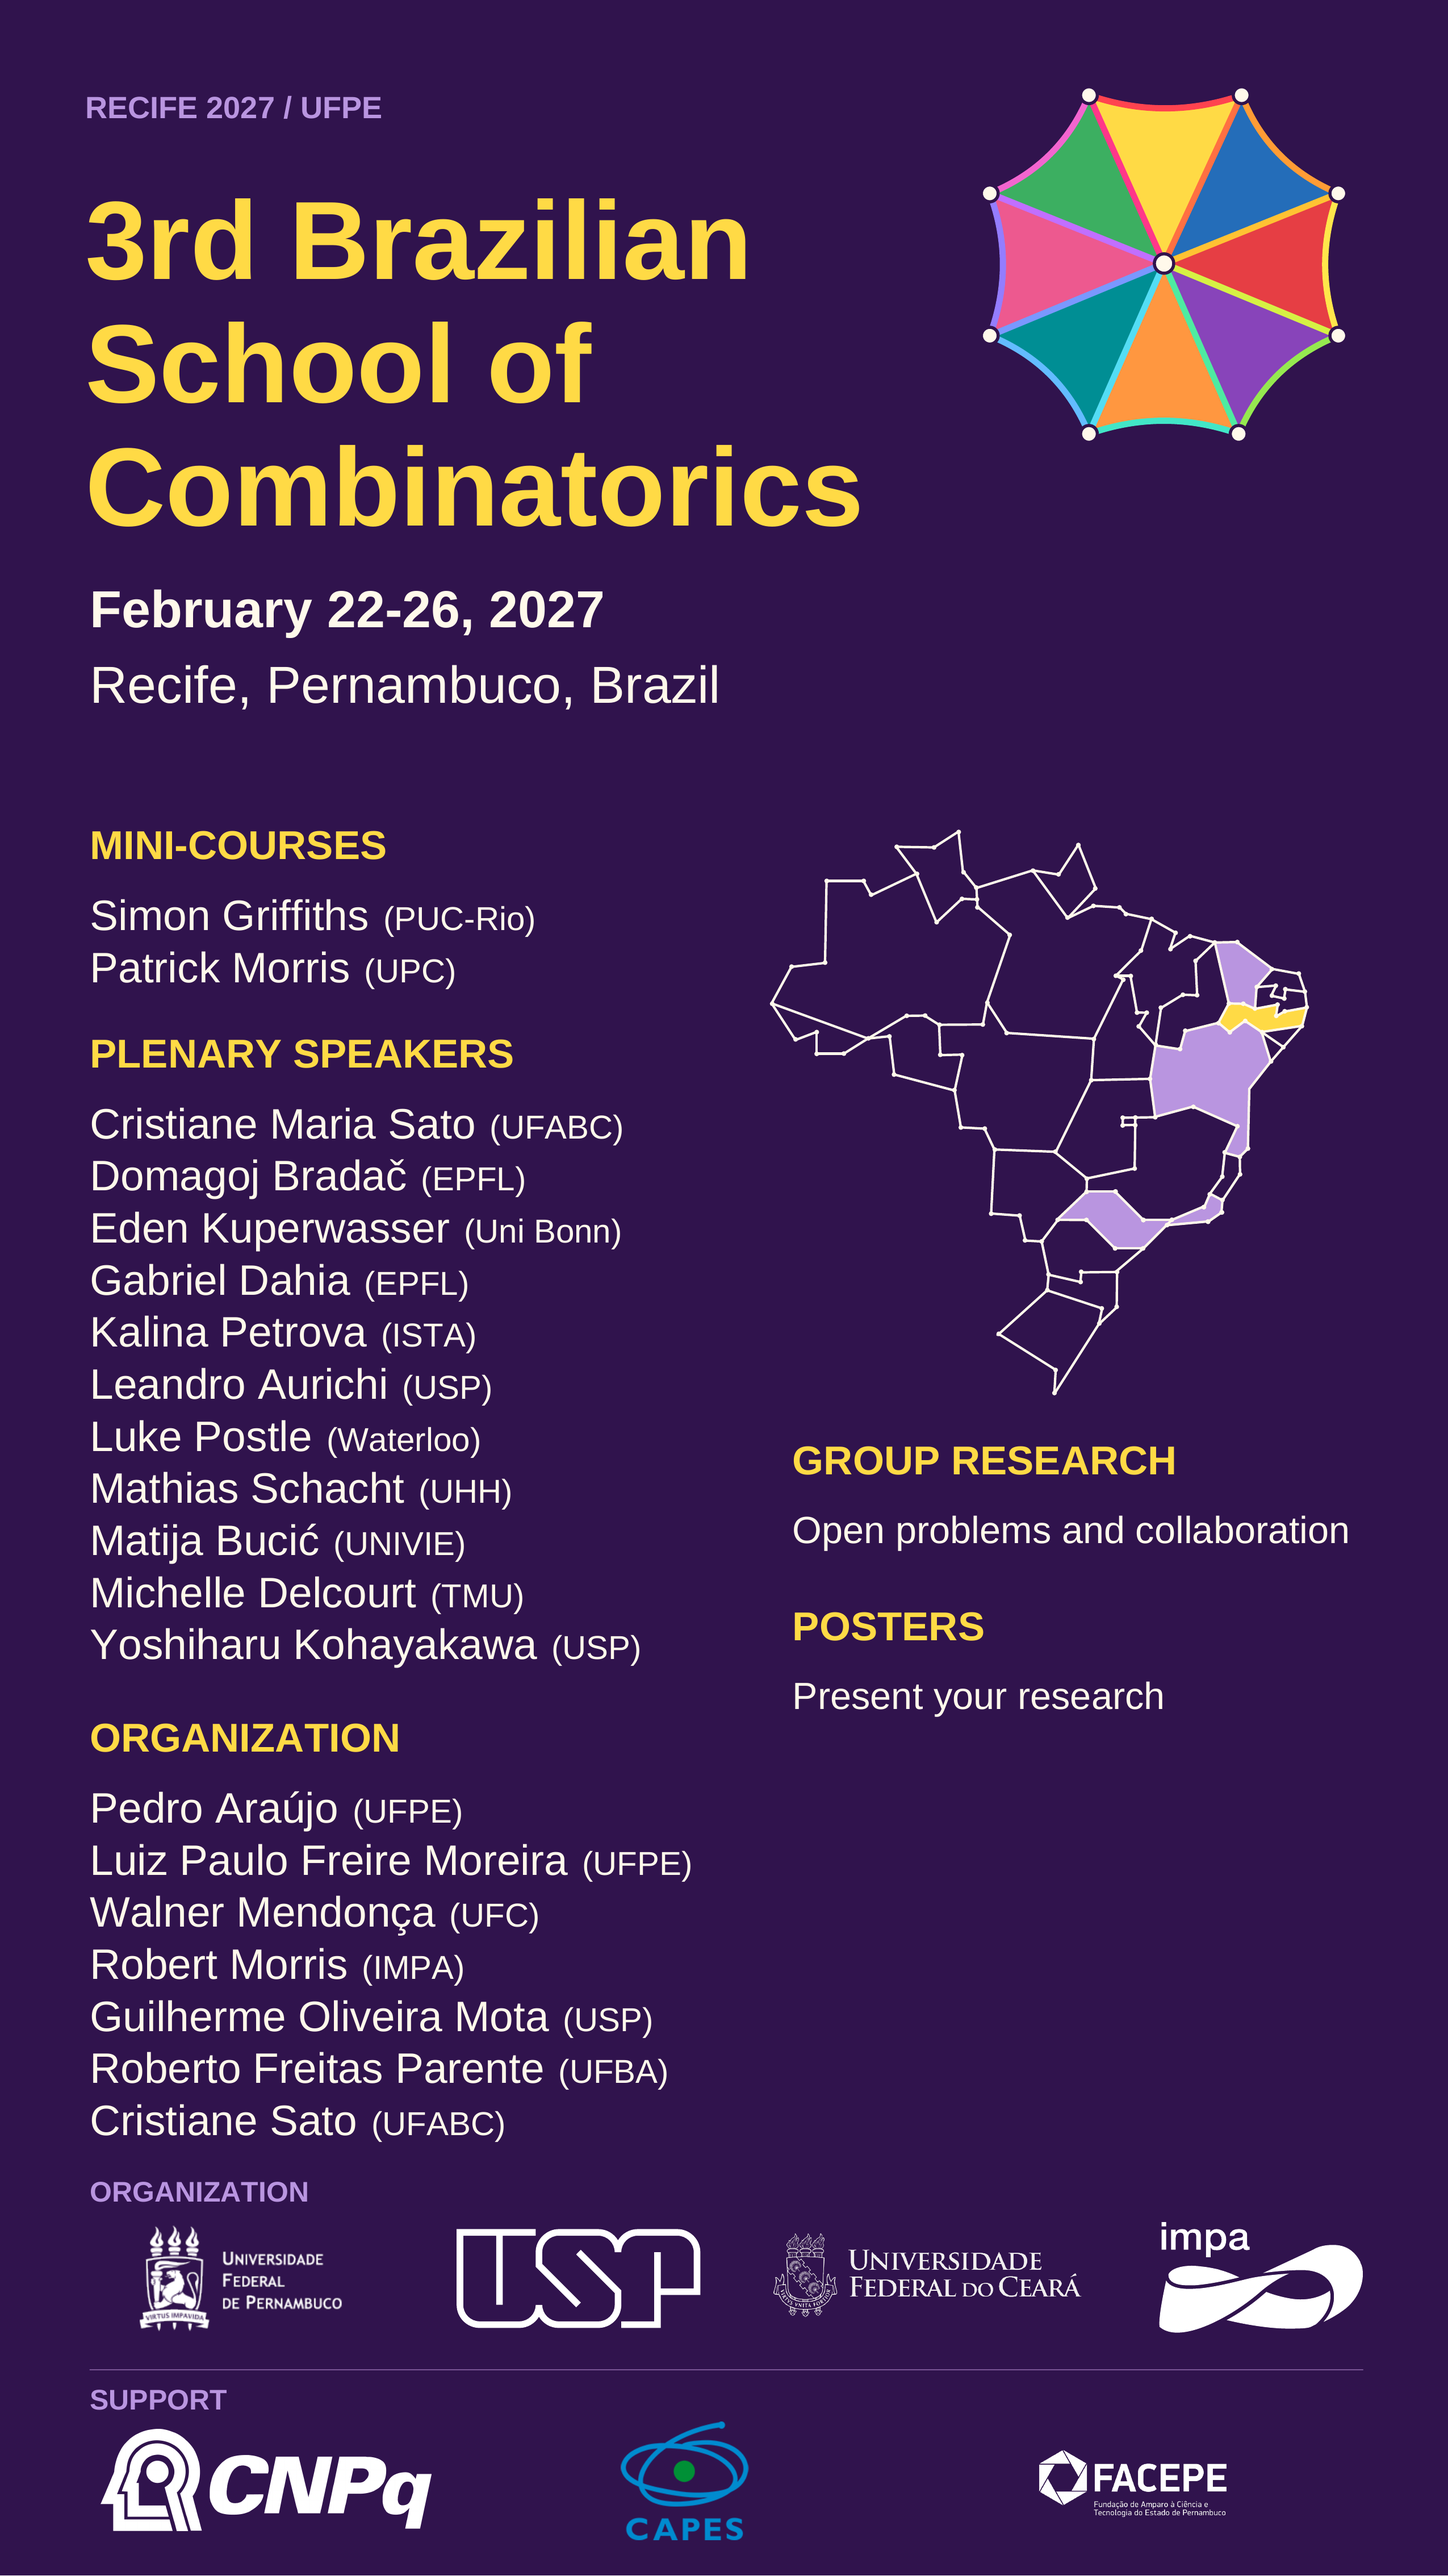
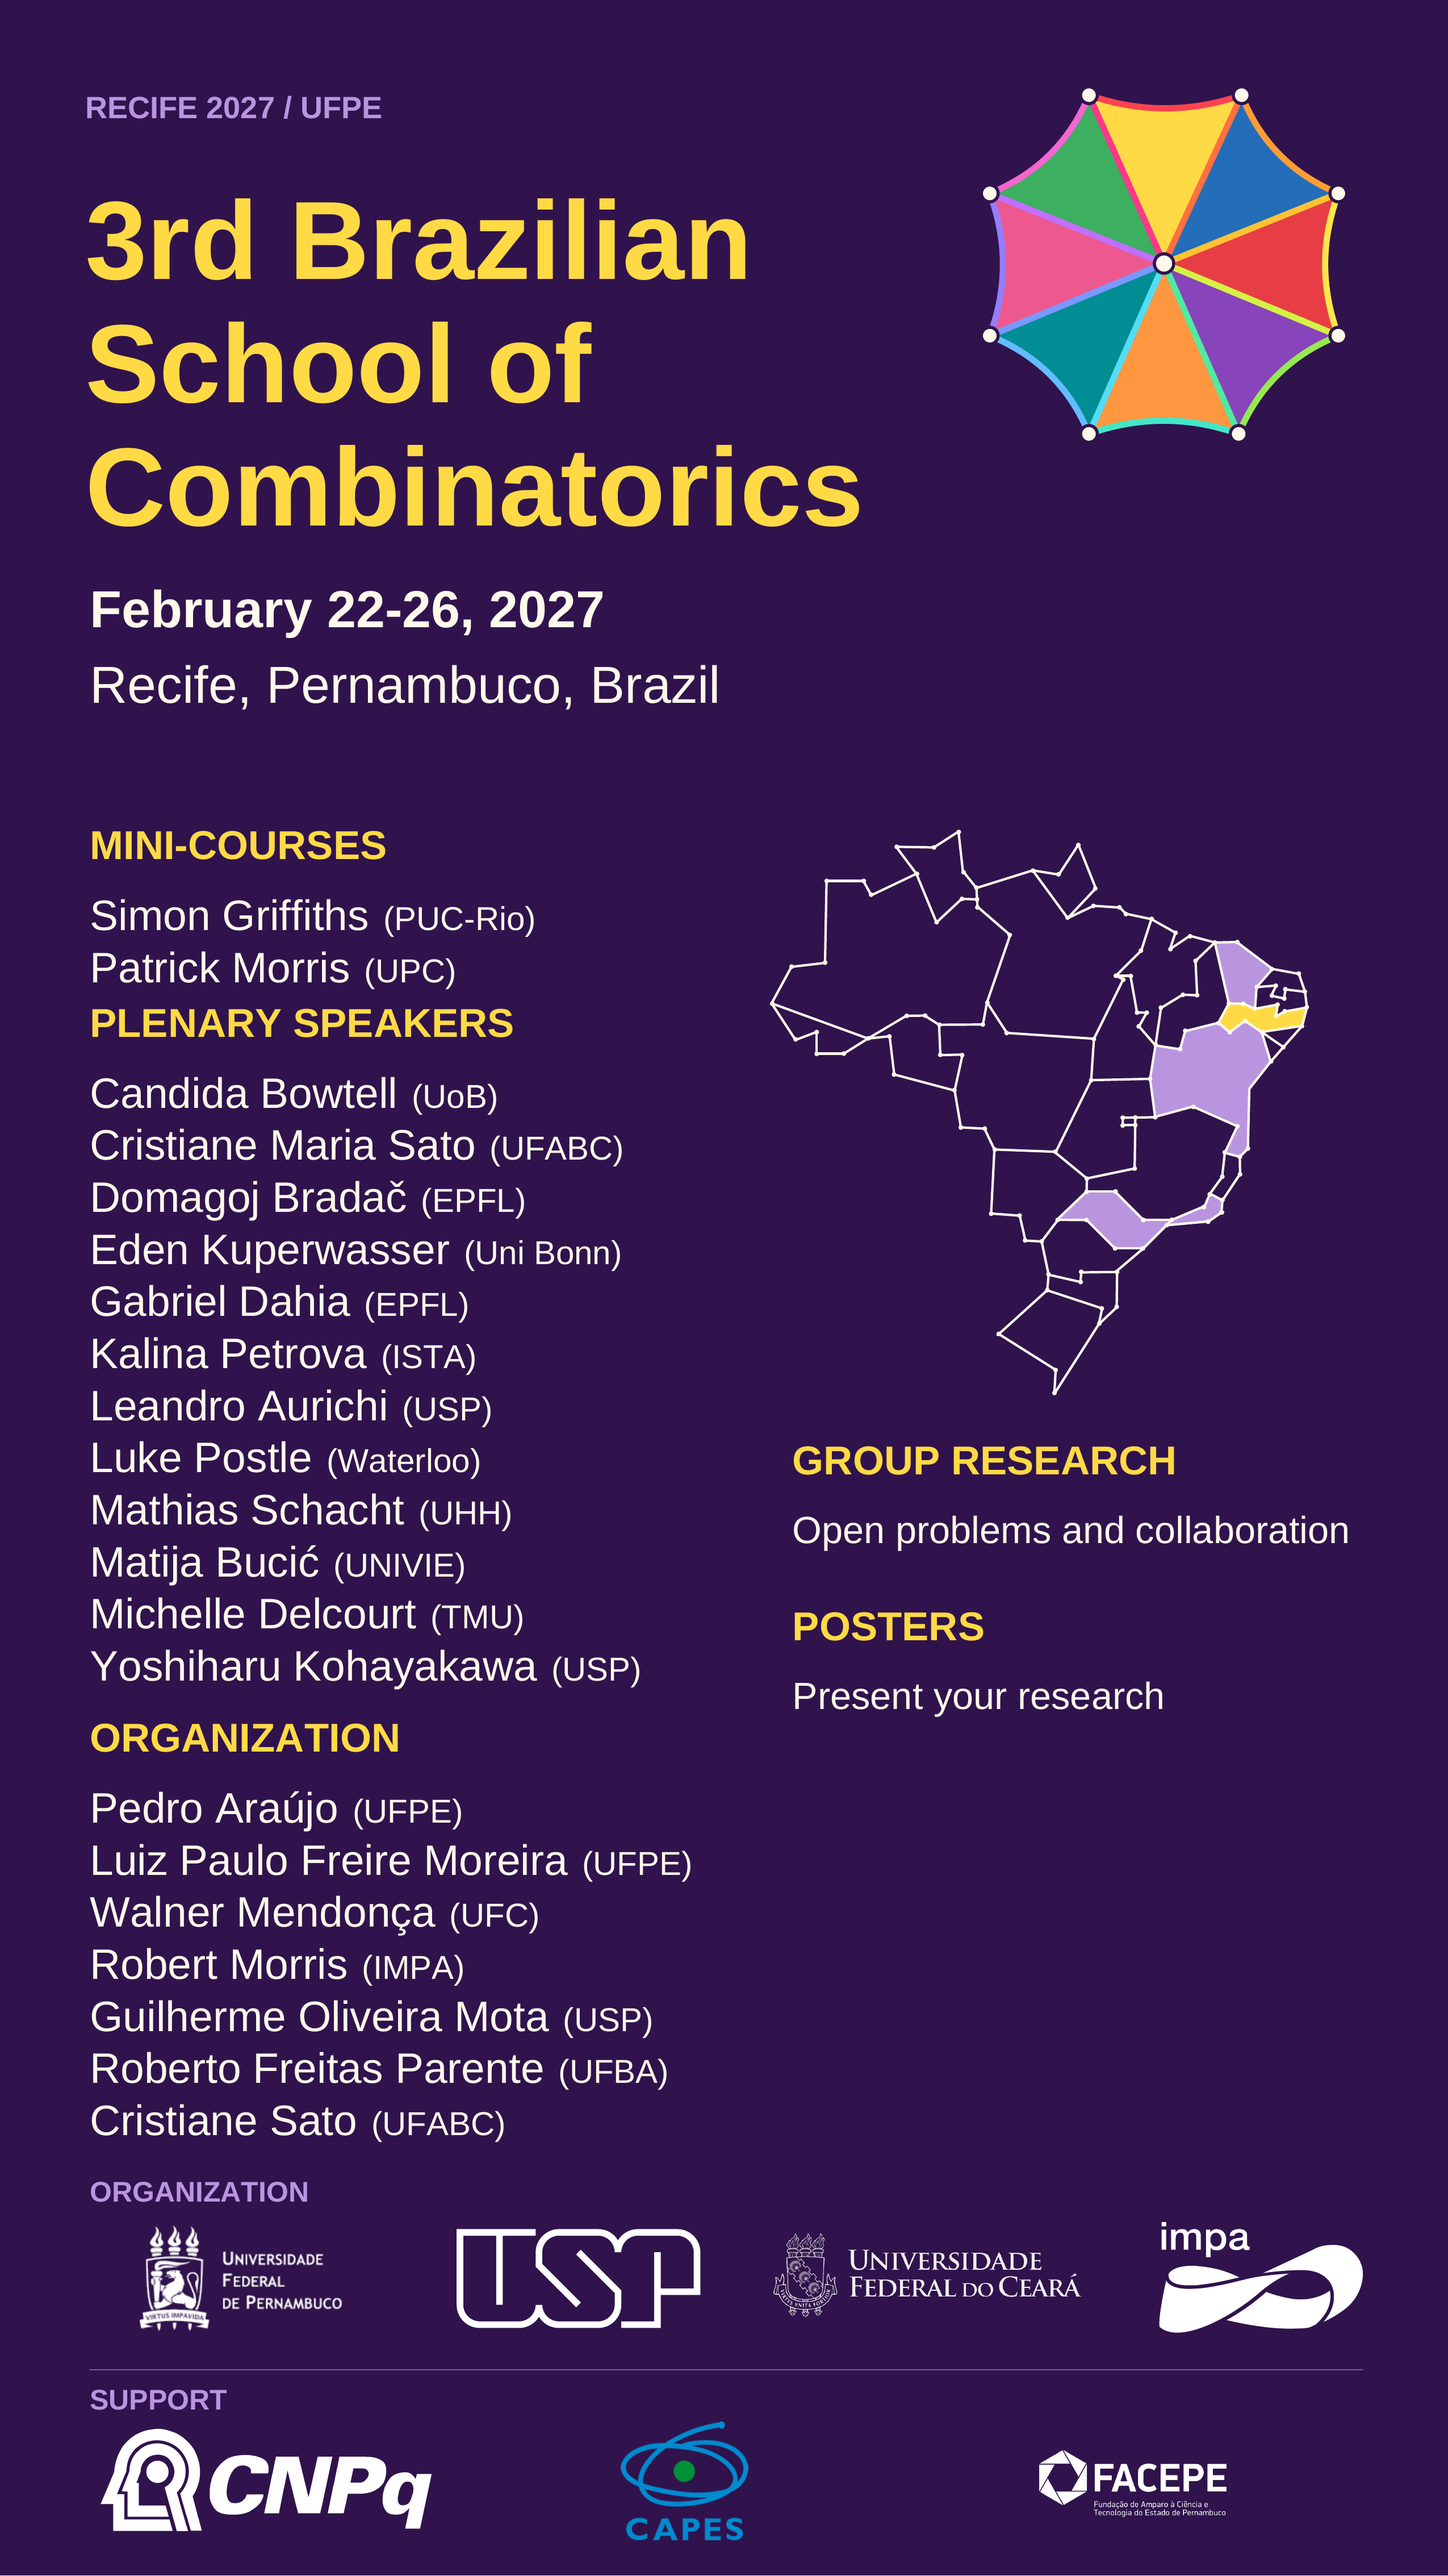
Reinclui Candida Bowtell e acrescenta uma plenária na terça-feira da 3ª EBC

Changed region(s): [[0.062, 0.3732, 0.4337, 0.6531]]

diff --git a/3aEBC/index.html b/3aEBC/index.html
@@ -54,7 +54,7 @@
   </section>
   <div class="container page-content">
     <section id="sobre" class="intro" aria-label="About the event">
-      <p>The <strong>3rd Brazilian School of Combinatorics (EBC)</strong> will take place in person at the Federal University of Pernambuco (UFPE), in Recife, Brazil. The programme includes two mini-courses, eleven plenary talks, poster presentations and sessions devoted to open problems.</p>
+      <p>The <strong>3rd Brazilian School of Combinatorics (EBC)</strong> will take place in person at the Federal University of Pernambuco (UFPE), in Recife, Brazil. The programme includes two mini-courses, twelve plenary talks, poster presentations and sessions devoted to open problems.</p>
       <p>The school welcomes undergraduate and graduate students, postdoctoral fellows and researchers from Brazil and abroad. Plenty of time will be set aside for working on problems in small groups.</p>
     </section>
     <div class="content-grid">
@@ -67,6 +67,7 @@
         <section id="palestrantes" class="section">
           <h2>Plenary speakers</h2>
           <ul class="people">
+            <li><strong>Candida Bowtell</strong> <span title="University of Birmingham">(UoB)</span></li>
             <li><strong>Cristiane Maria Sato</strong> <span title="Federal University of ABC">(UFABC)</span></li>
             <li><strong>Domagoj Bradač</strong> <span title="École polytechnique fédérale de Lausanne">(EPFL)</span></li>
             <li><strong>Eden Kuperwasser</strong> <span title="University of Bonn">(Uni Bonn)</span></li>
@@ -135,9 +136,9 @@
               <th scope="row">09:00–10:00</th>
               <td>Plenary 1</td>
               <td>Plenary 3</td>
-              <td>Plenary 5</td>
-              <td>Plenary 7</td>
-              <td>Plenary 10</td>
+              <td>Plenary 6</td>
+              <td>Plenary 8</td>
+              <td>Plenary 11</td>
             </tr>
             <tr>
               <th scope="row">10:00–10:30</th>
@@ -167,9 +168,9 @@
               <th scope="row">13:30–14:30</th>
               <td>Plenary 2</td>
               <td>Plenary 4</td>
-              <td>Plenary 6</td>
-              <td>Plenary 8</td>
-              <td>Plenary 11 and closing</td>
+              <td>Plenary 7</td>
+              <td>Plenary 9</td>
+              <td>Plenary 12 and closing</td>
             </tr>
             <tr>
               <th scope="row">14:30–16:00</th>
@@ -182,9 +183,9 @@
             <tr>
               <th scope="row">16:00–17:00</th>
               <td></td>
+              <td>Plenary 5</td>
               <td></td>
-              <td></td>
-              <td>Plenary 9</td>
+              <td>Plenary 10</td>
               <td></td>
             </tr>
             <tr>

diff --git a/source/static/3aEBC/index.html b/source/static/3aEBC/index.html
@@ -54,7 +54,7 @@
   </section>
   <div class="container page-content">
     <section id="sobre" class="intro" aria-label="About the event">
-      <p>The <strong>3rd Brazilian School of Combinatorics (EBC)</strong> will take place in person at the Federal University of Pernambuco (UFPE), in Recife, Brazil. The programme includes two mini-courses, eleven plenary talks, poster presentations and sessions devoted to open problems.</p>
+      <p>The <strong>3rd Brazilian School of Combinatorics (EBC)</strong> will take place in person at the Federal University of Pernambuco (UFPE), in Recife, Brazil. The programme includes two mini-courses, twelve plenary talks, poster presentations and sessions devoted to open problems.</p>
       <p>The school welcomes undergraduate and graduate students, postdoctoral fellows and researchers from Brazil and abroad. Plenty of time will be set aside for working on problems in small groups.</p>
     </section>
     <div class="content-grid">
@@ -67,6 +67,7 @@
         <section id="palestrantes" class="section">
           <h2>Plenary speakers</h2>
           <ul class="people">
+            <li><strong>Candida Bowtell</strong> <span title="University of Birmingham">(UoB)</span></li>
             <li><strong>Cristiane Maria Sato</strong> <span title="Federal University of ABC">(UFABC)</span></li>
             <li><strong>Domagoj Bradač</strong> <span title="École polytechnique fédérale de Lausanne">(EPFL)</span></li>
             <li><strong>Eden Kuperwasser</strong> <span title="University of Bonn">(Uni Bonn)</span></li>
@@ -135,9 +136,9 @@
               <th scope="row">09:00–10:00</th>
               <td>Plenary 1</td>
               <td>Plenary 3</td>
-              <td>Plenary 5</td>
-              <td>Plenary 7</td>
-              <td>Plenary 10</td>
+              <td>Plenary 6</td>
+              <td>Plenary 8</td>
+              <td>Plenary 11</td>
             </tr>
             <tr>
               <th scope="row">10:00–10:30</th>
@@ -167,9 +168,9 @@
               <th scope="row">13:30–14:30</th>
               <td>Plenary 2</td>
               <td>Plenary 4</td>
-              <td>Plenary 6</td>
-              <td>Plenary 8</td>
-              <td>Plenary 11 and closing</td>
+              <td>Plenary 7</td>
+              <td>Plenary 9</td>
+              <td>Plenary 12 and closing</td>
             </tr>
             <tr>
               <th scope="row">14:30–16:00</th>
@@ -182,9 +183,9 @@
             <tr>
               <th scope="row">16:00–17:00</th>
               <td></td>
+              <td>Plenary 5</td>
               <td></td>
-              <td></td>
-              <td>Plenary 9</td>
+              <td>Plenary 10</td>
               <td></td>
             </tr>
             <tr>
